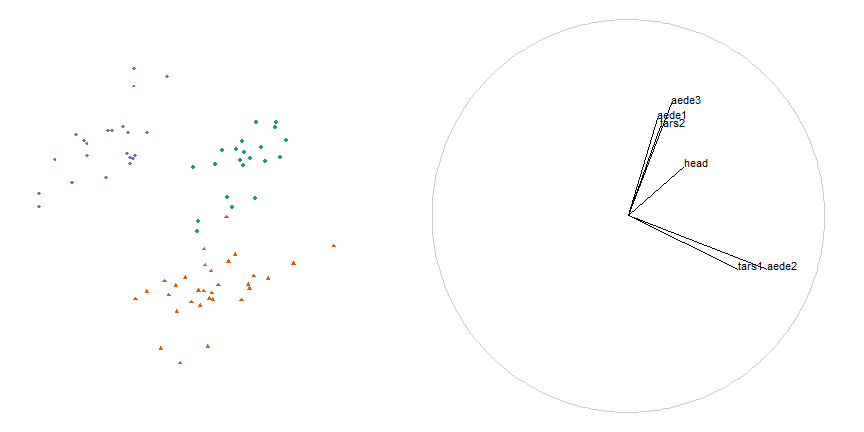
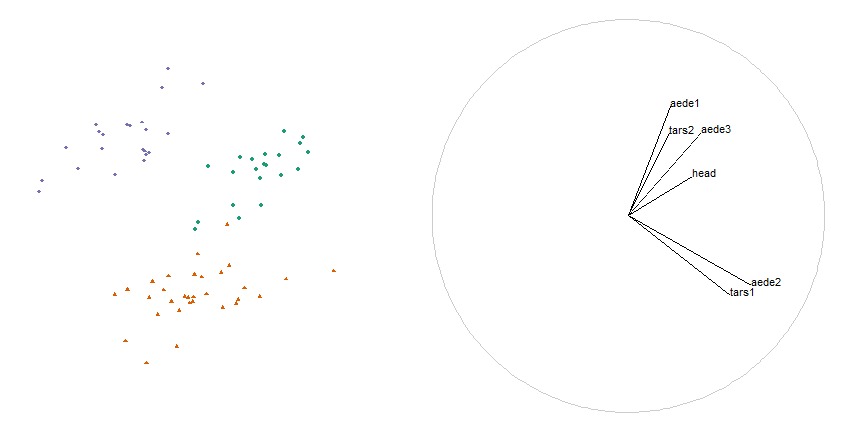
knit after projection back.

diff --git a/slides_ns.html b/slides_ns.html
@@ -147,33 +147,33 @@ Modern VR equipment has improved quality, increased audience, and reduced the co
 &lt;tbody&gt;
   &lt;tr&gt;
    &lt;td style="text-align:left;"&gt; tars1 &lt;/td&gt;
-   &lt;td style="text-align:right;"&gt; 0.5626 &lt;/td&gt;
-   &lt;td style="text-align:right;"&gt; -0.2703 &lt;/td&gt;
+   &lt;td style="text-align:right;"&gt; 0.5176 &lt;/td&gt;
+   &lt;td style="text-align:right;"&gt; -0.4061 &lt;/td&gt;
   &lt;/tr&gt;
   &lt;tr&gt;
    &lt;td style="text-align:left;"&gt; tars2 &lt;/td&gt;
-   &lt;td style="text-align:right;"&gt; 0.1659 &lt;/td&gt;
-   &lt;td style="text-align:right;"&gt; 0.4568 &lt;/td&gt;
+   &lt;td style="text-align:right;"&gt; 0.2095 &lt;/td&gt;
+   &lt;td style="text-align:right;"&gt; 0.4197 &lt;/td&gt;
   &lt;/tr&gt;
   &lt;tr&gt;
    &lt;td style="text-align:left;"&gt; head &lt;/td&gt;
-   &lt;td style="text-align:right;"&gt; 0.2855 &lt;/td&gt;
-   &lt;td style="text-align:right;"&gt; 0.2536 &lt;/td&gt;
+   &lt;td style="text-align:right;"&gt; 0.3269 &lt;/td&gt;
+   &lt;td style="text-align:right;"&gt; 0.2035 &lt;/td&gt;
   &lt;/tr&gt;
   &lt;tr&gt;
    &lt;td style="text-align:left;"&gt; aede1 &lt;/td&gt;
-   &lt;td style="text-align:right;"&gt; 0.1462 &lt;/td&gt;
-   &lt;td style="text-align:right;"&gt; 0.4980 &lt;/td&gt;
+   &lt;td style="text-align:right;"&gt; 0.2151 &lt;/td&gt;
+   &lt;td style="text-align:right;"&gt; 0.5579 &lt;/td&gt;
   &lt;/tr&gt;
   &lt;tr&gt;
    &lt;td style="text-align:left;"&gt; aede2 &lt;/td&gt;
-   &lt;td style="text-align:right;"&gt; 0.7108 &lt;/td&gt;
-   &lt;td style="text-align:right;"&gt; -0.2741 &lt;/td&gt;
+   &lt;td style="text-align:right;"&gt; 0.6296 &lt;/td&gt;
+   &lt;td style="text-align:right;"&gt; -0.3537 &lt;/td&gt;
   &lt;/tr&gt;
   &lt;tr&gt;
    &lt;td style="text-align:left;"&gt; aede3 &lt;/td&gt;
-   &lt;td style="text-align:right;"&gt; 0.2189 &lt;/td&gt;
-   &lt;td style="text-align:right;"&gt; 0.5751 &lt;/td&gt;
+   &lt;td style="text-align:right;"&gt; 0.3723 &lt;/td&gt;
+   &lt;td style="text-align:right;"&gt; 0.4255 &lt;/td&gt;
   &lt;/tr&gt;
 &lt;/tbody&gt;
 &lt;/table&gt;
